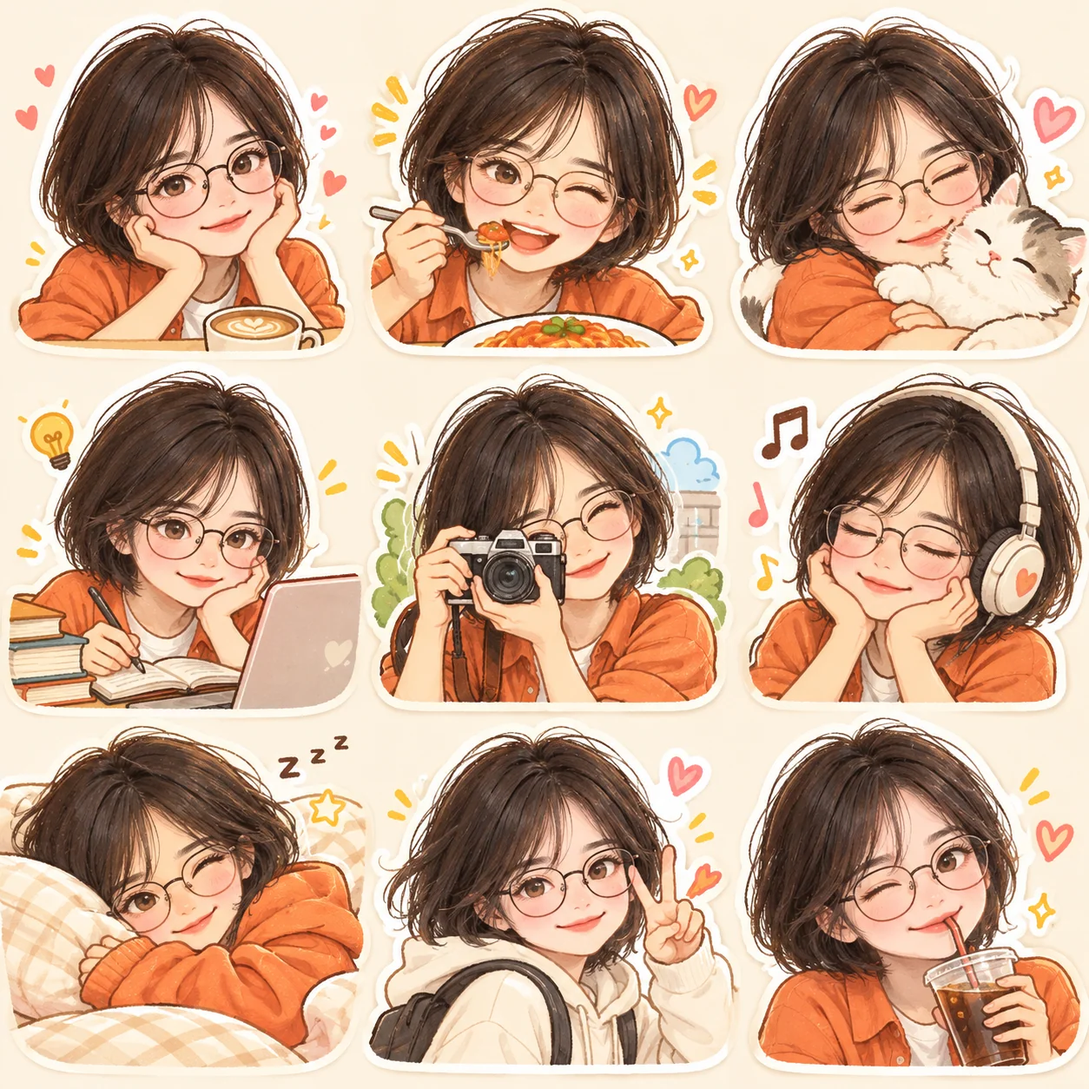
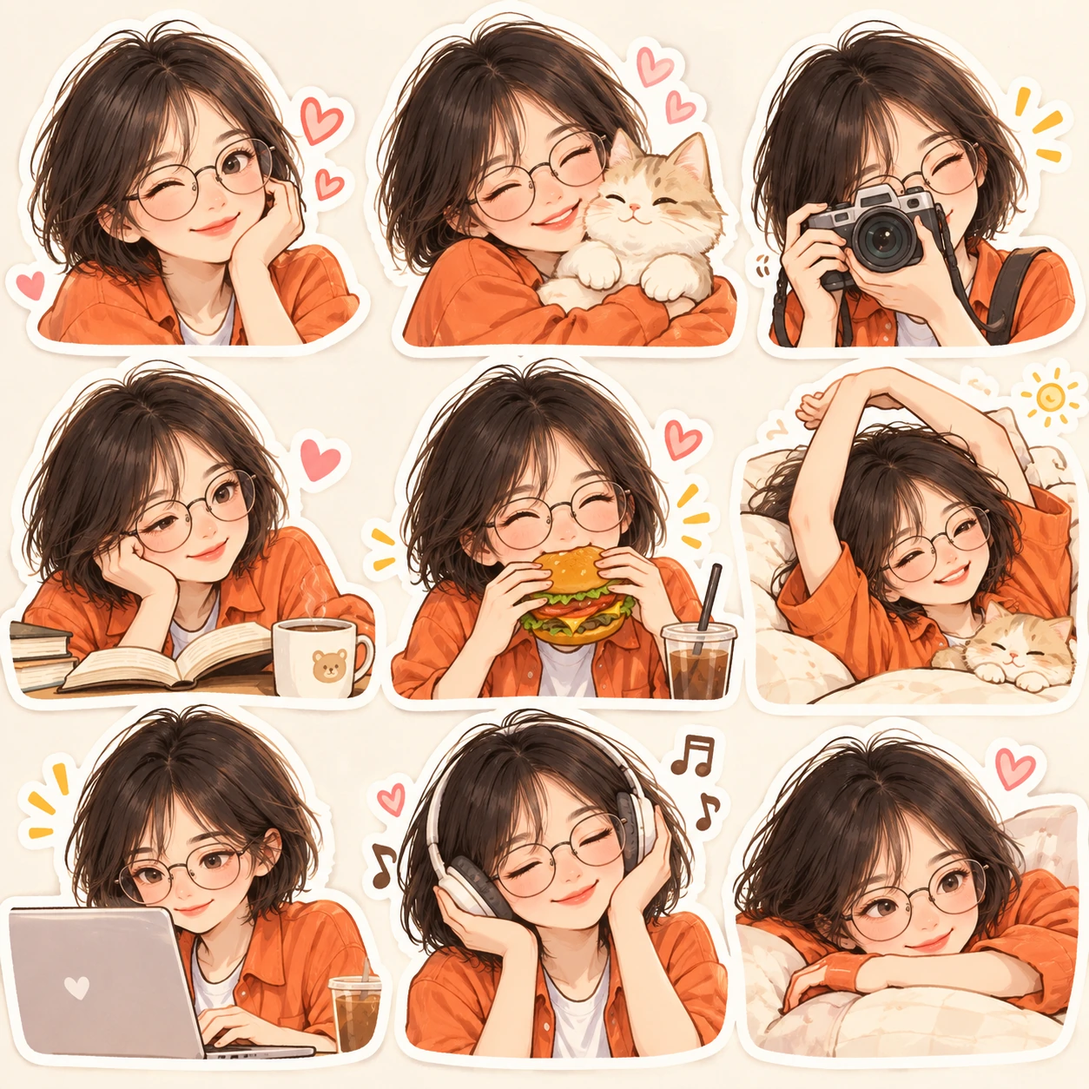
Fix photo input assumptions and regenerate prompt examples

diff --git a/index.html b/index.html
@@ -63,12 +63,12 @@
     <div class="dialog-topbar"><span class="dialog-brand">프롬프트 상세</span><div class="dialog-tools"><button class="icon-button" id="previous-prompt" type="button" aria-label="이전 프롬프트" title="이전 프롬프트 (←)"><svg class="icon" aria-hidden="true"><use href="#i-chevron" class="flipped"/></svg></button><span id="detail-position" class="detail-position" aria-live="polite"></span><button class="icon-button" id="next-prompt" type="button" aria-label="다음 프롬프트" title="다음 프롬프트 (→)"><svg class="icon" aria-hidden="true"><use href="#i-chevron"/></svg></button><span class="toolbar-divider" aria-hidden="true"></span><button class="button close-dialog" id="close-dialog" type="button" aria-label="상세 닫기"><svg class="icon" aria-hidden="true"><use href="#i-close"/></svg><span>닫기</span></button></div></div>
     <div class="detail-body"><div class="detail-layout">
       <div class="detail-visual"><div id="detail-image-frame" class="detail-image-frame" aria-busy="true"><p id="detail-image-loading" role="status" hidden>이미지를 불러오는 중…</p><img id="detail-image" alt=""><div id="detail-image-error" class="image-error" role="status" hidden><svg class="icon" aria-hidden="true"><use href="#i-photo"/></svg><p>이미지를 불러오지 못했어요.</p><button id="retry-image" class="button button-light" type="button">다시 불러오기</button></div></div><button id="original-image" class="original-link" type="button">결과 원본 크게 보기 <svg class="icon" aria-hidden="true"><use href="#i-expand"/></svg></button></div>
-      <div class="detail-content"><p id="detail-category" class="detail-category"></p><h2 id="detail-title"></h2><div class="detail-tags" id="detail-tags"></div><div id="input-guide" class="input-guide"><svg class="icon" aria-hidden="true"><use href="#i-photo"/></svg><p id="detail-usage"></p></div><section id="reference-section" class="reference-section" aria-labelledby="reference-title" hidden><h3 id="reference-title">첨부 예시</h3><div id="reference-images" class="reference-images"></div></section><div class="prompt-label"><label for="detail-prompt">프롬프트 원문</label><button type="button" id="expand-prompt" class="text-link" aria-expanded="false" aria-controls="detail-prompt">전체 보기</button></div><textarea id="detail-prompt" class="prompt-text" readonly spellcheck="false"></textarea><div class="detail-credit"><span id="detail-credit-label">커뮤니티 샘플 · <span id="detail-author"></span></span><a id="detail-source" target="_blank" rel="noopener noreferrer">원본 출처 <svg class="icon" aria-hidden="true"><use href="#i-arrow"/></svg><span class="sr-only"> (새 탭)</span></a></div></div>
+      <div class="detail-content"><p id="detail-category" class="detail-category"></p><h2 id="detail-title"></h2><div class="detail-tags" id="detail-tags"></div><div id="input-guide" class="input-guide"><svg class="icon" aria-hidden="true"><use href="#i-photo"/></svg><p id="detail-usage"></p></div><section id="reference-section" class="reference-section" aria-labelledby="reference-title" hidden><h3 id="reference-title">첨부 예시</h3><div id="reference-images" class="reference-images"></div><p id="example-note" class="example-note"></p></section><div class="prompt-label"><label for="detail-prompt">프롬프트 원문</label><button type="button" id="expand-prompt" class="text-link" aria-expanded="false" aria-controls="detail-prompt">전체 보기</button></div><textarea id="detail-prompt" class="prompt-text" readonly spellcheck="false"></textarea><div class="detail-credit"><span id="detail-credit-label">커뮤니티 샘플 · <span id="detail-author"></span></span><a id="detail-source" target="_blank" rel="noopener noreferrer">원본 출처 <svg class="icon" aria-hidden="true"><use href="#i-arrow"/></svg><span class="sr-only"> (새 탭)</span></a></div></div>
     </div></div>
     <footer class="detail-footer"><div class="detail-footer-actions"><button id="detail-copy" class="button button-primary" type="button"><svg class="icon" aria-hidden="true"><use href="#i-copy"/></svg><span>프롬프트 복사</span></button><button id="detail-save" class="button button-light save-button" type="button" aria-pressed="false"><svg class="icon" aria-hidden="true"><use href="#i-bookmark"/></svg><span>저장</span></button><button id="share-prompt" class="icon-button" type="button" aria-label="프롬프트 링크 복사" title="프롬프트 링크 복사"><svg class="icon" aria-hidden="true"><use href="#i-link"/></svg></button></div><div class="detail-feedback-row"><p id="detail-feedback" role="status" aria-atomic="true">ChatGPT에 사진 1장과 복사한 프롬프트를 함께 보내세요.</p><button id="detail-undo" class="text-link" type="button" hidden>실행 취소</button></div></footer>
   </dialog>
 
-  <dialog id="about-dialog" class="about-dialog" aria-labelledby="about-title"><button class="icon-button about-close" id="close-about" type="button" aria-label="소개 닫기"><svg class="icon" aria-hidden="true"><use href="#i-close"/></svg></button><span class="about-symbol" aria-hidden="true">✳</span><h2 id="about-title">좋은 결과를,<br>함께 쓰는 프롬프트로.</h2><p>레퍼런스 한 장에서 시작하는 재미있는 이미지들. 마음에 드는 결과를 발견하면 프롬프트를 복사해서 나만의 이미지를 만들어보세요.</p><p class="about-note">사진을 첨부해 변환하는 프롬프트만 모았습니다. 첨부 예시와 결과는 AI로 생성했으며, 각 결과는 표시된 프롬프트로 만들었습니다. 내 사진으로 바꿔 사용해 보세요. 저장한 프롬프트는 지금 사용하는 브라우저에 보관됩니다.</p><a href="https://github.com/Q07K/prompt-gallery/blob/main/docs/photo-transform-prompts.md" target="_blank" rel="noopener noreferrer" class="text-link">프롬프트와 예시 이미지 안내 ↗</a></dialog>
+  <dialog id="about-dialog" class="about-dialog" aria-labelledby="about-title"><button class="icon-button about-close" id="close-about" type="button" aria-label="소개 닫기"><svg class="icon" aria-hidden="true"><use href="#i-close"/></svg></button><span class="about-symbol" aria-hidden="true">✳</span><h2 id="about-title">좋은 결과를,<br>함께 쓰는 프롬프트로.</h2><p>레퍼런스 한 장에서 시작하는 재미있는 이미지들. 마음에 드는 결과를 발견하면 프롬프트를 복사해서 나만의 이미지를 만들어보세요.</p><p class="about-note">사진을 첨부해 변환하는 프롬프트만 모았습니다. 첨부 예시와 결과는 AI로 생성했으며, 각 결과는 표시된 프롬프트를 첨부 예시에 적용해 만들었습니다. 내 사진으로 바꿔 사용해 보세요. 저장한 프롬프트는 지금 사용하는 브라우저에 보관됩니다.</p><a href="https://github.com/Q07K/prompt-gallery/blob/main/docs/photo-transform-prompts.md" target="_blank" rel="noopener noreferrer" class="text-link">프롬프트와 예시 이미지 안내 ↗</a></dialog>
   <div class="toast" id="toast"><span id="toast-message" role="status" aria-atomic="true"></span><button class="text-link" id="toast-action" type="button" hidden>실행 취소</button><button class="icon-button" id="toast-dismiss" type="button" aria-label="알림 닫기"><svg class="icon" aria-hidden="true"><use href="#i-close"/></svg></button></div>
   <dialog id="image-dialog" class="image-dialog" aria-labelledby="image-viewer-title" aria-describedby="image-viewer-hint">
     <header class="image-viewer-toolbar">

diff --git a/app.js b/app.js
@@ -256,7 +256,7 @@ function createCard(prompt, index) {
   const actions = element('div', 'card-actions');
   if (prompt.inputRequirement) {
     const badge = element('span', 'input-badge');
-    badge.append(icon('photo'), document.createTextNode(prompt.inputRequirement === 'portrait' ? '인물 사진 1장 필요' : '사진 1장 필요'));
+    badge.append(icon('photo'), document.createTextNode(prompt.inputLabel));
     actions.append(badge);
   }
   const copy = button('copy-button', `${prompt.title} 프롬프트 복사`, 'copy');
@@ -392,6 +392,7 @@ function openPrompt(prompt, trigger = null, writeHistory = true) {
   $('#detail-category').textContent = prompt.category;
   $('#detail-tags').replaceChildren(...prompt.tags.map(tag => element('span', 'detail-tag', tag)));
   $('#detail-usage').textContent = prompt.usage;
+  $('#example-note').textContent = prompt.exampleNote || 'AI로 만든 첨부 예시와 변환 결과입니다.';
   $('#input-guide').classList.toggle('is-text', !prompt.inputRequirement);
   $('#input-guide use').setAttribute('href', `#i-${prompt.inputRequirement ? 'photo' : 'spark'}`);
   $('#detail-prompt').value = prompt.prompt;

diff --git a/styles.css b/styles.css
@@ -185,6 +185,7 @@ dialog::backdrop { background: #000b; }
 .input-guide.is-text .icon { color: var(--muted); }
 .reference-section { margin-top: 20px; }
 .reference-section h3 { font-size: 13px; font-weight: 600; margin-bottom: 8px; }
+.example-note { margin-top: 8px; color: var(--muted); font-size: 12px; line-height: 1.65; }
 .reference-images { display: flex; gap: 8px; flex-wrap: wrap; }
 .reference-images img { width: 104px; height: 104px; object-fit: cover; border-radius: 6px; }
 .reference-open { padding: 0; border: 1px solid var(--border); border-radius: 6px; background: none; cursor: zoom-in; }

diff --git a/docs/photo-transform-prompts.md b/docs/photo-transform-prompts.md
@@ -1,12 +1,90 @@
 # 사진 변환 프롬프트와 생성 예시
 
-2026-10-15. 내장 이미지 생성 도구로 서로 다른 첨부 예시 6장을 먼저 만들었다. 각 예시만 입력 이미지로 첨부하고, 아래에 적힌 짧은 변환 프롬프트를 그대로 보내 결과를 생성했다. 도구에 별도의 스타일·품질 지시를 덧붙이지 않았다. 예시 인물과 장소 장면은 생성 이미지이며 실제 사용자의 사진이 아니다.
+2026-10-15. 내장 이미지 생성 도구로 서로 다른 첨부 예시 6장을 먼저 만들었다. 각 예시만 입력 이미지로 첨부하고, 아래 「최초 생성 당시 프롬프트」에 보관한 짧은 변환 프롬프트를 그대로 보내 결과를 생성했다. 도구에 별도의 스타일·품질 지시를 덧붙이지 않았다. 예시 인물과 장소 장면은 생성 이미지이며 실제 사용자의 사진이 아니다.
 
-기존 디오라마 항목과 그 프롬프트·이미지는 그대로 유지했다. 공개 갤러리는 디오라마와 아래 6개, 총 7개로 구성한다. 기존 커뮤니티 결과 이미지는 제거했으며 아래 링크는 각 스타일의 참고 출처다. 사진에 맞추는 핵심 지시만 남기고 대상의 성별·외모·장소·브랜드·활동을 고정하지 않았다.
+기존 디오라마 항목과 그 프롬프트·이미지는 그대로 유지했다. 공개 갤러리는 디오라마와 아래 6개, 총 7개로 구성한다. 기존 커뮤니티 결과 이미지는 제거했으며 아래 링크는 각 스타일의 참고 출처다. 생성 후 재검토에서 사람·반려동물의 동반 여부, 복수 대상, 음식의 변환 영역 등 입력에 대한 전제를 확인해 6개 프롬프트와 전체 첨부 안내를 보완했다. 이후 기존 원본 6장을 각각 첨부하고 현재 공개 프롬프트를 그대로 보내 결과를 다시 생성했다. 별도의 스타일·품질 지시는 덧붙이지 않았으며, 결과와 썸네일을 재생성본으로 교체했다. 원본 6장과 디오라마는 유지했다.
 
-## 내 얼굴로 만드는 일상 스티커 9종
+## 현재 공개 프롬프트
 
-첨부 예시: 단발·안경·주황색 옷의 인물 사진. [예시 이미지](../assets/images/cozy-stickers.reference.webp) · [변환 결과](../assets/images/cozy-stickers.webp)
+스티커·봉제 인형은 사진의 주요 피사체를 기준으로 변환한다. 인물·음식·풍경 전용 프롬프트는 필요한 대상이 없으면 사진을 요청한다. 대상 선택이 필요한 항목은 사용자가 이미 대상을 지정한 경우 그 지시를 따르고, 지정하지 않은 복수 대상은 먼저 확인한다. 디오라마의 사용자 제공 원문은 유지하며 인물 보존 조건을 사용법에 명시했다.
+
+### 사진 속 풍경을 손바닥만 한 세상으로 (handcrafted-diorama)
+
+[첨부 원본](../assets/images/handcrafted-diorama.reference.webp) · [현재 변환 결과](../assets/images/handcrafted-diorama.webp)
+
+첨부 조건: 변환할 사진 1장 필요. 주요 피사체의 형태와 색이 잘 보이는 사진 1장을 첨부하세요. 풍경·건물·사물뿐 아니라 인물이 중심인 사진도 사용할 수 있습니다. 사진 속 모든 사람을 보존하려면 인물이 핵심 피사체임을 함께 알려주세요. 예시는 AI로 만든 제주 감성의 가상 돌집입니다.
+
+```text
+첨부한 이미지를 중심 소재로 한 기발한 수제 미니어처 디오라마를 생성하세요. 이미지 속 주요 피사체와 고유한 형태, 색감, 질감, 특징을 유지하면서 아늑하고 디테일이 살아있는 작은 세상 속에 배치하세요. 원본 이미지의 장소와 분위기에 어울리는 미니어처 소품, 주변 환경, 작은 장식 및 상징적인 디테일을 자연스럽게 추가하세요. 부드럽고 따뜻한 색감, 사실적인 수제 질감, 작은 불완전함, 종이 공예 및 점토 같은 디테일을 활용하세요. 모든 요소가 실제로 작고 정성스럽게 손으로 만든 것처럼 느껴져야 합니다. 전체 장면은 깔끔하고 질감이 느껴지는 흰색 종이 배경 위에 배치하고, 여백을 충분히 활용하세요. 이미지에서 장소를 식별할 수 있다면 해당 장소에서 영감을 받은 작은 표지판과 우아한 타이포그래피를 추가하세요. 부드럽고 은은한 스튜디오 조명, 부드러운 그림자, 매력적인 동화책 분위기, 프리미엄 수집용 미니어처 아트, 높은 디테일, 4:5 세로 구도, 사람 없음(원본의 인물이 핵심 피사체인 경우 제외), 실사 배경 없음.
+```
+
+### 내 얼굴로 만드는 일상 스티커 9종 (cozy-stickers)
+
+[첨부 원본](../assets/images/cozy-stickers.reference.webp) · [현재 변환 결과](../assets/images/cozy-stickers.webp)
+
+첨부 조건: 인물 사진 1장 필요. 얼굴이 잘 보이는 인물 사진 1장을 첨부하세요. 여러 명이 나온 사진이라면 누구를 스티커로 만들지 함께 알려주세요.
+
+```text
+첨부한 사진의 인물을 바탕으로 서로 다른 일상 활동을 하는 3×3 스티커 9종을 만들어줘. 사진에 보이는 얼굴과 외모의 특징을 살리고, 따뜻한 색감의 귀여운 일러스트로 그려줘. 인물이 여러 명이고 변환할 사람이 지정되지 않았다면 먼저 누구를 그릴지 물어봐줘. 사진이 없거나 인물이 보이지 않으면 인물 사진을 요청해줘.
+```
+
+### 내 사진이 보송보송한 봉제 인형으로 (plush-soda)
+
+[첨부 원본](../assets/images/plush-soda.reference.webp) · [현재 변환 결과](../assets/images/plush-soda.webp)
+
+첨부 조건: 변환할 사진 1장 필요. 인물·동물·물건 등 인형으로 만들 대상의 형태가 잘 보이는 사진 1장을 첨부하세요. 대상이 여러 개라면 무엇을 변환할지 함께 알려주세요.
+
+```text
+첨부한 사진의 주요 피사체를 보송보송한 봉제 인형으로 바꿔줘. 원래 형태와 색, 알아볼 수 있는 특징은 살려줘. 대상이 여럿이고 변환할 대상이 지정되지 않았다면 먼저 무엇을 인형으로 만들지 물어봐줘. 사진이 없다면 먼저 사진을 요청해줘.
+```
+
+### 내 음식 사진이 픽셀로 흩어진다면 (pixel-food)
+
+[첨부 원본](../assets/images/pixel-food.reference.webp) · [현재 변환 결과](../assets/images/pixel-food.webp)
+
+첨부 조건: 음식 사진 1장 필요. 음식이 사진 중앙에 걸쳐 선명하게 보이는 사진 1장을 첨부하세요. 사진 중앙선 오른쪽에 보이는 음식에만 픽셀 효과가 적용됩니다.
+
+```text
+첨부한 음식 사진을 화면의 세로 중앙선을 기준으로 나눠 왼쪽 절반은 그대로 두고, 오른쪽 절반에 보이는 음식만 원래 음식의 색을 가진 3D 픽셀 조각으로 흩어지게 해줘. 배경과 접시 등 음식 이외의 요소는 유지해줘. 사진이 없거나 음식이 보이지 않으면 음식 사진을 요청해줘.
+```
+
+### 내 사진을 문구점 스티커로 (animal-friend)
+
+[첨부 원본](../assets/images/animal-friend.reference.webp) · [현재 변환 결과](../assets/images/animal-friend.webp)
+
+첨부 조건: 변환할 사진 1장 필요. 스티커로 만들 인물·동물·사물 사진 1장을 첨부하세요. 혼자 나온 사진도 사용할 수 있으며, 여러 피사체가 있으면 함께 있는 구도를 살립니다.
+
+```text
+첨부한 사진의 주요 피사체를 귀여운 문구점 스티커 일러스트로 바꿔줘. 사진에 보이는 외모와 형태의 특징을 살리고, 피사체가 여럿이면 함께 있는 구도를 유지해줘. 원본에 없는 사람이나 동물은 추가하지 마. 사진이 없다면 먼저 사진을 요청해줘.
+```
+
+### 내 여행 사진을 빈티지 포스터로 (amalfi-summer)
+
+[첨부 원본](../assets/images/amalfi-summer.reference.webp) · [현재 변환 결과](../assets/images/amalfi-summer.webp)
+
+첨부 조건: 풍경·건물 사진 1장 필요. 풍경이나 건물이 잘 드러나는 사진 1장을 첨부하세요. 사람이 함께 나와도 됩니다. 장소 이름을 넣고 싶다면 이름도 함께 알려주세요.
+
+```text
+첨부한 사진에 보이는 풍경이나 건물의 특징과 주요 구도를 살려 빈티지 여행 포스터로 바꿔줘. 사람이 함께 보이면 외모와 위치도 유지하고, 선명한 색면과 종이에 인쇄한 듯한 질감을 사용해줘. 사진이 없거나 배경을 알아보기 어려우면 풍경이나 건물이 잘 보이는 사진을 요청해줘. 장소 이름은 사용자가 알려준 경우에만 넣어줘.
+```
+
+### 내 얼굴로 만드는 사이버펑크 포스터 (cyberpunk-profile)
+
+[첨부 원본](../assets/images/cyberpunk-profile.reference.webp) · [현재 변환 결과](../assets/images/cyberpunk-profile.webp)
+
+첨부 조건: 인물 사진 1장 필요. 얼굴이 선명한 인물 사진 1장을 첨부하세요. 여러 명이 나온 사진이라면 누구를 포스터로 만들지 함께 알려주세요.
+
+```text
+첨부한 사진의 인물을 사이버펑크 영화 포스터처럼 바꿔줘. 사진에 보이는 얼굴과 외모의 특징을 유지하고, 네온 조명과 미래 도시 배경을 더해줘. 인물이 여러 명이고 변환할 사람이 지정되지 않았다면 먼저 누구를 그릴지 물어봐줘. 사진이 없거나 인물이 보이지 않으면 인물 사진을 요청해줘.
+```
+
+## 최초 생성 당시 프롬프트
+
+아래 문구는 최초 생성 이력을 보존하기 위한 원문이다. 현재 복사되는 프롬프트와 공개 결과는 위 항목을 따른다. 최초 결과는 Git의 이전 버전에 남아 있다.
+
+### 내 얼굴로 만드는 일상 스티커 9종
+
+첨부 예시: 단발·안경·주황색 옷의 인물 사진. [예시 이미지](../assets/images/cozy-stickers.reference.webp)
 
 ```text
 첨부한 인물 사진을 바탕으로 서로 다른 일상 활동을 하는 3×3 스티커 9종을 만들어줘. 얼굴과 헤어스타일의 특징을 살리고, 따뜻한 색감의 귀여운 일러스트로 그려줘.
@@ -14,9 +92,9 @@
 
 [스타일 참고 출처](https://x.com/RuzainaMeer/status/2071097968846057649). 프롬프트는 이 갤러리의 사진 변환 용도로 새로 작성했다.
 
-## 내 물건이 보송보송한 봉제 인형으로
+### 내 물건이 보송보송한 봉제 인형으로
 
-첨부 예시: 청록색 라디오 사진. [예시 이미지](../assets/images/plush-soda.reference.webp) · [변환 결과](../assets/images/plush-soda.webp)
+첨부 예시: 청록색 라디오 사진. [예시 이미지](../assets/images/plush-soda.reference.webp)
 
 ```text
 첨부한 사진 속 물건을 보송보송한 봉제 인형으로 바꿔줘. 원래 형태와 색, 알아볼 수 있는 특징은 살려줘.
@@ -24,9 +102,9 @@
 
 [스타일 참고 출처](https://x.com/iamaiistudio/status/2063261665207239055). 프롬프트는 이 갤러리의 사진 변환 용도로 새로 작성했다.
 
-## 내 음식 사진이 픽셀로 흩어진다면
+### 내 음식 사진이 픽셀로 흩어진다면
 
-첨부 예시: 파란 접시 위 딸기 케이크 사진. [예시 이미지](../assets/images/pixel-food.reference.webp) · [변환 결과](../assets/images/pixel-food.webp)
+첨부 예시: 파란 접시 위 딸기 케이크 사진. [예시 이미지](../assets/images/pixel-food.reference.webp)
 
 ```text
 첨부한 음식 사진의 왼쪽 절반은 그대로 두고, 오른쪽 절반은 음식의 색을 가진 3D 픽셀 조각으로 흩어지게 해줘.
@@ -34,9 +112,9 @@
 
 [스타일 참고 출처](https://x.com/iamaiistudio/status/2063171137685569561). 프롬프트는 이 갤러리의 사진 변환 용도로 새로 작성했다.
 
-## 나와 반려동물을 한 장의 스티커로
+### 나와 반려동물을 한 장의 스티커로
 
-첨부 예시: 초록색 후드티의 인물과 시바견 사진. [예시 이미지](../assets/images/animal-friend.reference.webp) · [변환 결과](../assets/images/animal-friend.webp)
+첨부 예시: 초록색 후드티의 인물과 시바견 사진. [예시 이미지](../assets/images/animal-friend.reference.webp)
 
 ```text
 첨부한 사진 속 사람과 반려동물을 귀여운 문구점 스티커 일러스트로 바꿔줘. 둘의 외모 특징과 함께 있는 모습은 살려줘.
@@ -44,9 +122,9 @@
 
 [스타일 참고 출처](https://x.com/Taaruk_/status/2068351521016955098). 프롬프트는 이 갤러리의 사진 변환 용도로 새로 작성했다.
 
-## 내 여행 사진을 빈티지 포스터로
+### 내 여행 사진을 빈티지 포스터로
 
-첨부 예시: 노란 트램이 있는 리스본 거리 예시. [예시 이미지](../assets/images/amalfi-summer.reference.webp) · [변환 결과](../assets/images/amalfi-summer.webp)
+첨부 예시: 노란 트램이 있는 리스본 거리 예시. [예시 이미지](../assets/images/amalfi-summer.reference.webp)
 
 ```text
 첨부한 여행 사진의 장소와 주요 구도를 살려 빈티지 여행 포스터로 바꿔줘. 선명한 색면과 종이에 인쇄한 듯한 질감을 사용해줘.
@@ -54,9 +132,9 @@
 
 [스타일 참고 출처](https://x.com/WolfRiccardo/status/2044562722491121718). 프롬프트는 이 갤러리의 사진 변환 용도로 새로 작성했다.
 
-## 내 얼굴로 만드는 사이버펑크 포스터
+### 내 얼굴로 만드는 사이버펑크 포스터
 
-첨부 예시: 은발·안경의 중년 이후 여성 인물 사진. [예시 이미지](../assets/images/cyberpunk-profile.reference.webp) · [변환 결과](../assets/images/cyberpunk-profile.webp)
+첨부 예시: 은발·안경의 중년 이후 여성 인물 사진. [예시 이미지](../assets/images/cyberpunk-profile.reference.webp)
 
 ```text
 첨부한 사진의 인물 특징을 유지하면서 사이버펑크 영화 포스터처럼 바꿔줘. 네온 조명과 미래 도시 배경을 더해줘.
@@ -64,6 +142,19 @@
 
 [스타일 참고 출처](https://x.com/iamsofiaijaz/status/2047882171336253928). 프롬프트는 이 갤러리의 사진 변환 용도로 새로 작성했다.
 
+## 재생성 결과 검토
+
+| 항목 | 확인한 결과 |
+|---|---|
+| 일상 스티커 | 3×3 총 9종. 원본의 단발·안경·주황색 옷을 살리고 서로 다른 일상 장면으로 구성됐다. |
+| 봉제 인형 | 라디오의 청록색 본체·주황색 다이얼·크림색 스피커·안테나를 보존하며 봉제 질감으로 바뀌었다. |
+| 음식 픽셀 | 중앙선 부근부터 오른쪽 음식이 3D 조각으로 흩어진다. 왼쪽 실사 영역과 접시·배경 구도를 눈으로 비교했다. 픽셀 단위 동일성을 보장하는 검사는 아니다. |
+| 문구점 스티커 | 원본의 인물과 강아지 한 마리, 좌우 배치와 외모 특징을 유지한 일러스트다. 인물의 다리 자세와 배경은 재해석됐다. |
+| 여행 포스터 | 트램·거리·건물의 주요 구도가 유지되고 인쇄 질감과 색면이 적용됐다. 사진에 없던 큰 장소명 제목은 추가되지 않았다. |
+| 사이버펑크 | 은발·검은 안경·귀걸이 등 인물 특징에 네온 조명과 미래 도시, 영화 포스터의 제목·문구가 더해졌다. |
+
+[생성 기록과 원본·결과 SHA-256](image-generation-2026-10-15.json)에 실제 도구 입력 문구와 파일 연결을 보관했다. WebP 변환과 썸네일 축소 외에 생성 결과를 수정하지 않았다. 사진 누락·대상 누락·복수 대상의 질문 동작은 이번 이미지 생성으로 검증하지 않았다.
+
 ## 확인한 범위
 
-각 예시 한 쌍에서 인물/사물 특징과 변환 효과를 눈으로 확인했다. 임의의 다른 사진에 대한 재현성이나 성공률을 보장하는 테스트는 아니다. 원본 PNG는 생성 도구의 기본 저장 위치와 작업용 캐시에 보관하고, 사이트는 로컬 WebP 원본·결과·썸네일을 사용한다.
+기존 원본 6장에 현재 공개 프롬프트를 적용한 재생성 결과를 각각 눈으로 확인했다. 인물 특징, 피사체 구도, 변환 스타일과 명시된 조건을 비교했다. 임의의 다른 사진에 대한 재현성이나 성공률을 보장하는 테스트는 아니다. 원본 PNG는 생성 도구의 기본 저장 위치와 작업용 캐시에 보관하고, 사이트는 로컬 WebP 원본·결과·썸네일을 사용한다.

diff --git a/README.md b/README.md
@@ -58,6 +58,7 @@ node scripts/serve.mjs --dist --base /prompt-gallery/ --port 4174
   "color": "#a2b3c4",
   "prompt": "첨부한 사진의 인물을 3D 피규어로 만들어 주세요...",
   "inputRequirement": "portrait",
+  "inputLabel": "인물 사진 1장 필요",
   "usage": "인물 사진 1장을 첨부하고 프롬프트를 붙여넣으세요.",
   "referenceImages": ["assets/images/my-first-reference.webp"],
   "author": "@Q07K",
@@ -69,6 +70,8 @@ node scripts/serve.mjs --dist --base /prompt-gallery/ --port 4174
 
 - 카테고리: `인물`, `캐릭터`, `일러스트`, `제품`, `포스터`, `아트·밈`.
 - `inputRequirement`: 인물 사진은 `"portrait"`, 일반 사진은 `"image"`. 모든 항목에 사진 첨부가 필요합니다.
+- `inputLabel`: 카드 복사 버튼 위에 표시할 구체적인 첨부 조건. 예: `음식 사진 1장 필요`, `풍경·건물 사진 1장 필요`.
+- `exampleNote`: 선택 항목. 결과 이미지를 만든 뒤 프롬프트를 수정했다면 이전 프롬프트로 만든 예시임을 표시합니다.
 - `referenceImages`: 공개할 첨부 예시 이미지의 로컬 경로 배열. 최소 1개가 필요합니다.
 - `order`: 작은 숫자가 먼저 보입니다. 기존 항목을 수정하면 Git에 변경 이력이 남습니다.
 - `sample: false`: 직접 작성한 게시물은 상세의 커뮤니티 샘플 표시가 없어집니다.
@@ -79,7 +82,7 @@ node scripts/serve.mjs --dist --base /prompt-gallery/ --port 4174
 
 결과는 `assets/images/handcrafted-diorama.webp`, 레퍼런스는 `assets/images/handcrafted-diorama.reference.webp`, 카드용 썸네일은 `assets/images/handcrafted-diorama.thumb.webp`에 보관합니다.
 
-현재 공개 항목은 기존 디오라마와 새로 만든 사진 변환 프롬프트 6개, 총 7개입니다. 새 항목의 첨부 예시와 결과는 내장 이미지 생성 도구로 직접 생성했습니다. 각 변환에는 갤러리에 표시된 1~2문장의 프롬프트를 그대로 사용했습니다.
+현재 공개 항목은 기존 디오라마와 사진 변환 프롬프트 6개, 총 7개입니다. 첨부 예시와 결과는 내장 이미지 생성 도구로 직접 생성했습니다. 입력 대상의 누락·복수 대상 처리를 보완한 6개 항목은 기존 원본 사진에 현재 공개 프롬프트를 그대로 적용해 결과와 썸네일을 재생성했습니다. 별도의 스타일 지시는 추가하지 않았습니다. [생성 기록](docs/image-generation-2026-10-15.json)에 도구 입력 문구와 원본·결과 파일의 해시를 보관합니다. 디오라마의 사용자 제공 원문은 유지하고 첨부 안내를 보완했습니다.
 
 [전체 프롬프트·예시·스타일 참고 출처](docs/photo-transform-prompts.md)를 확인할 수 있습니다. 이전 커뮤니티 샘플과 사용하지 않는 이미지 파일은 공개 목록에서 제거했습니다. 초기 참고 컬렉션의 CC0 문서는 `licenses/sample-collection-CC0.txt`에 보관합니다.
 
